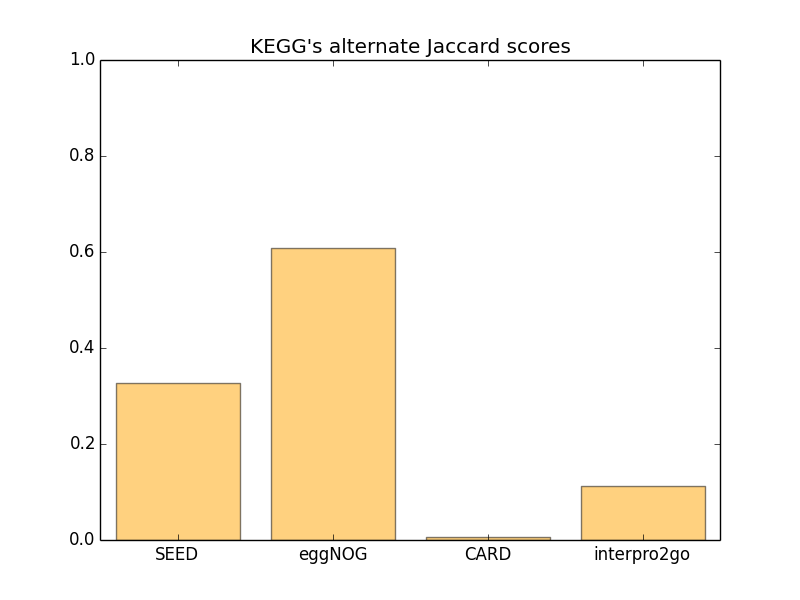
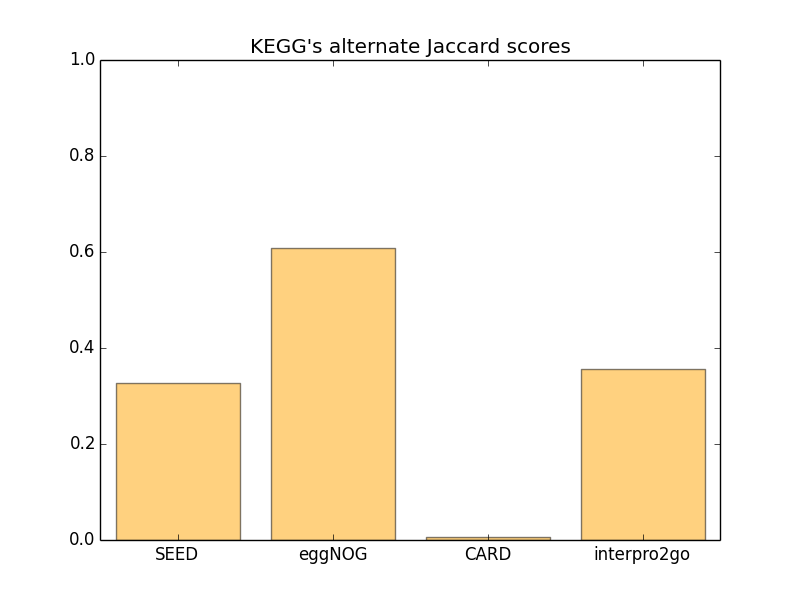
New venn diagrams run with X files

Changed region(s): [[0.7188, 0.6, 0.9062, 0.84]]

diff --git a/intersect.py b/intersect.py
@@ -3,6 +3,7 @@ import pandas as pd
 from matplotlib_venn import venn2
 from matplotlib_venn import venn3
 from matplotlib import pyplot as plt
+from tqdm import tqdm
 
 if __name__ == "__main__":
     parser = argparse.ArgumentParser(description="Get GI's intersecting with the different classification systems:"
@@ -30,7 +31,7 @@ if __name__ == "__main__":
     card.columns = ['gi', 'card']
     card = card.drop_duplicates(subset='gi')
     print('Reading InterPro mapping file...')
-    interpro = pd.read_csv(path_to_tree+"interpro2go/gi2interpro-June2016.map", sep='\t', header=None)
+    interpro = pd.read_csv(path_to_tree+"interpro2go/gi2interpro-June2016X.map", sep='\t', header=None)
     interpro.columns = ['gi', 'interpro']
     interpro = interpro.drop_duplicates(subset='gi')
 
@@ -39,10 +40,10 @@ if __name__ == "__main__":
 
     intersects = [[0 for x in range(len(names))] for y in range(len(names))]
     count = 0
-    indexes3 = [[-1 for x in range(len(names))] for y in range(len(names))]
+    indexes = [[-1 for x in range(len(names))] for y in range(len(names))]
     inters = []
     candice = [[0 for x in range(len(names))]for y in range(len(names))]
-    for i in range(0,len(names)-1):
+    for i in tqdm(range(0,len(names)-1)):
         for j in range(i+1,len(names)):
             print("Running merge on %s with %s..." % (names[i], names[j]))
             inter = pd.merge(outer_sets[i],outer_sets[j])
@@ -87,7 +88,7 @@ if __name__ == "__main__":
                 ha = 'center', textcoords = 'offset points', bbox = dict(boxstyle = 'round, pad = 0.5', fc = 'lime', alpha = 0.3),
                 arrowprops = dict(arrowstyle = '->', connectionstyle = 'arc3, rad = 0.5', color = 'gray'))
             plt.title("Venn Diagram of intersecting GIs from %s with %s (Jaccard = %.3f)" % (names[i],names[j],jac))
-            plt.savefig("venn_%s_%s"%(names[i],names[j]))
+            plt.savefig("venn/venn_%s_%s"%(names[i],names[j]))
             plt.clf()
         # plt.show()
     print("Creating alternate jaccard bar charts...")
@@ -113,7 +114,7 @@ if __name__ == "__main__":
                 print("size: {0:,}".format(len(inters3[count])))
                 count += 1
 
-    for i in range(0,len(names)-2):
+    for i in tqdm(range(0,len(names)-2)):
         for j in range(i+1,len(names)-1):
             for k in range(j+1,len(names)):
                 sb = (len(outer_sets[i])-intersects[i][j]-intersects[i][k]+len(inters3[indexes3[i][j][k]]),
@@ -159,7 +160,7 @@ if __name__ == "__main__":
                 plt.annotate('{0:,}'.format(sb[6]), xy = v.get_label_by_id('111').get_position(), xytext = (-50,20), size = 'medium',
                 ha = 'center', textcoords = 'offset points',
                 arrowprops = dict(arrowstyle = '->', connectionstyle = 'arc3, rad = 0.5', color = 'gray'))
-                plt.savefig("venn/venn_%s_%s_%s" % (names[i],names[j],names[k]))
+                plt.savefig("venn/venn3_%s_%s_%s" % (names[i],names[j],names[k]))
                 plt.clf()
                 # plt.show()
 
